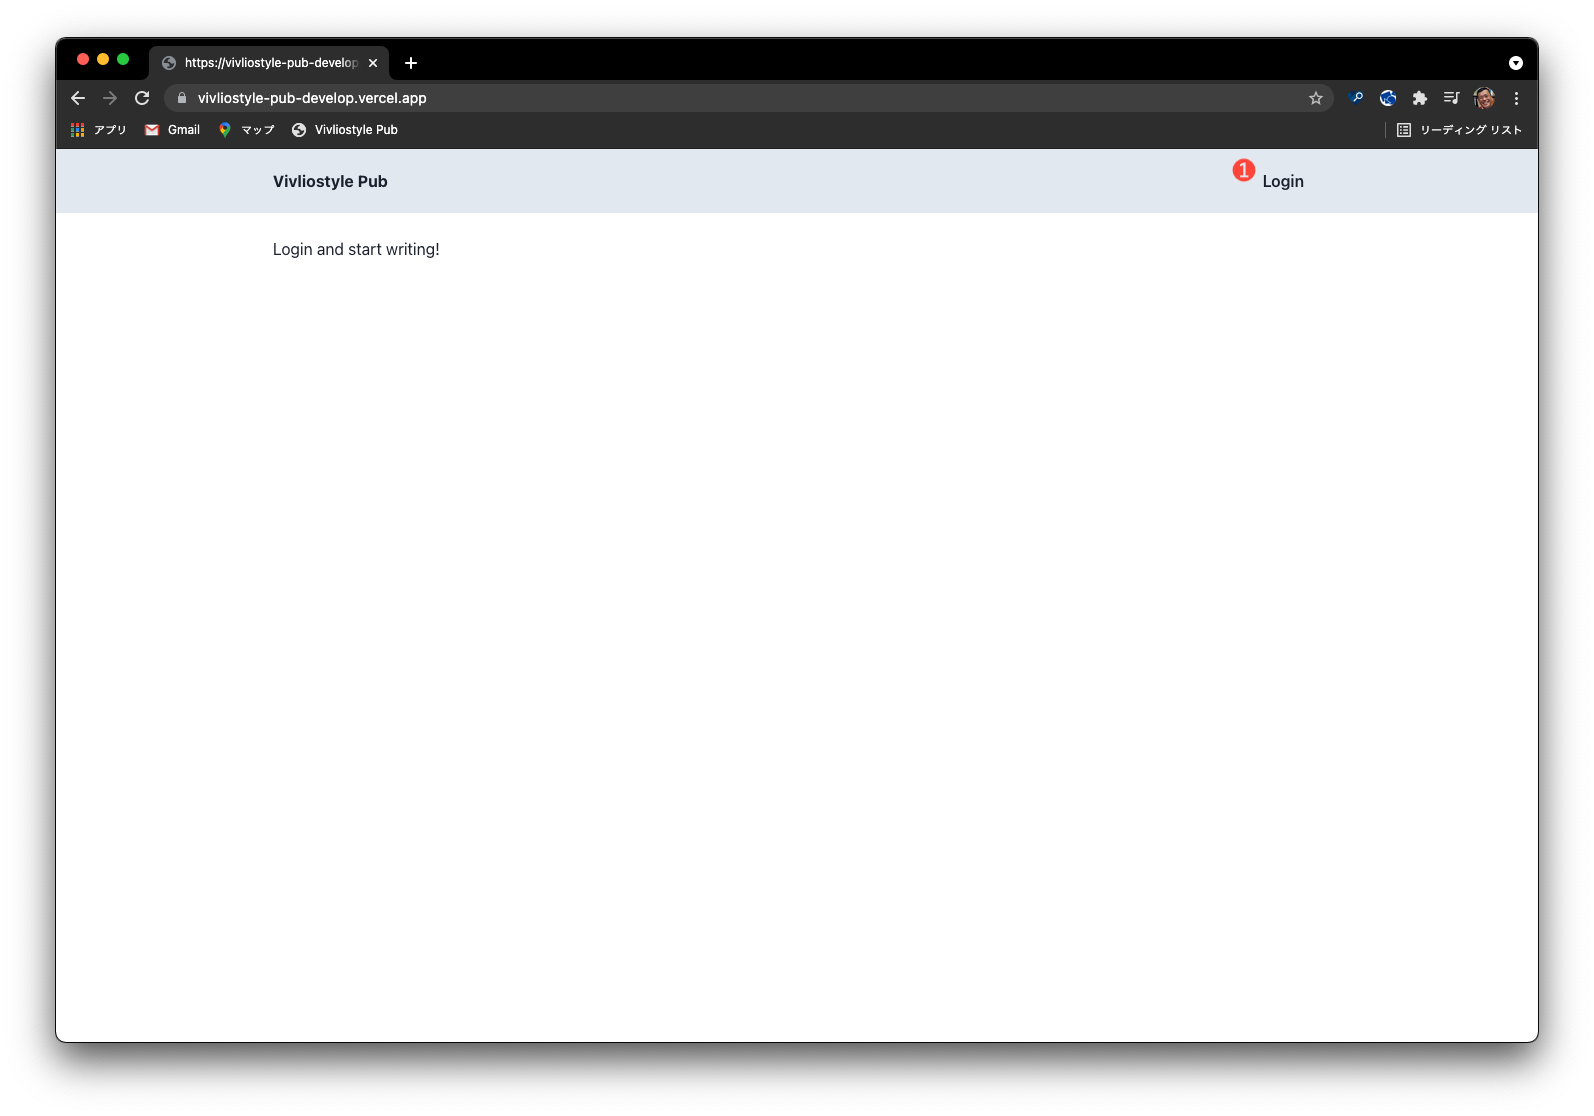
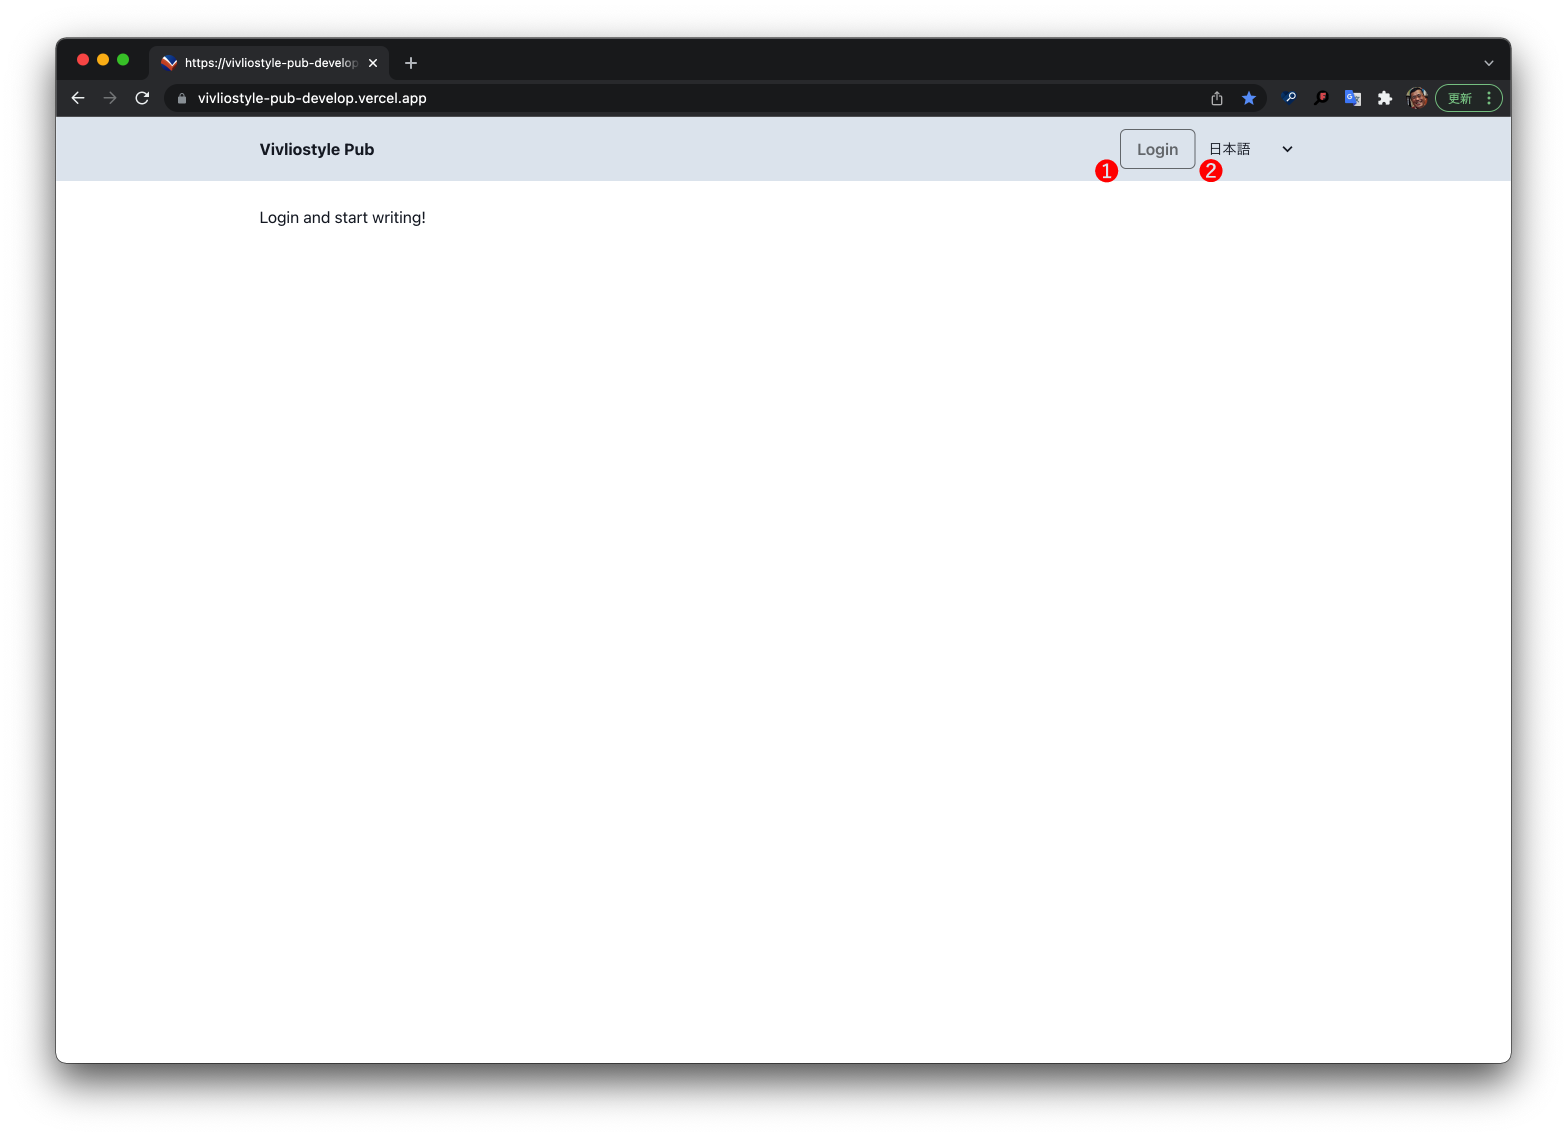
クイックスタートガイド途中まで

Changed region(s): [[0.0306, 0.0305, 0.9802, 0.2437]]

diff --git a/ja/readme-first/quick-start-guide-and-required-environment.md b/ja/readme-first/quick-start-guide-and-required-environment.md
@@ -7,26 +7,61 @@
 
 ## 初期画面
 
-[所定のURL](https://vivliostyle-pub-develop.vercel.app/)にアクセスすると、以下の初期画面が表示されます。①「Login」ボタンを押して、GitHubアカウントでログインしてください。（→[GitHubアカウントの取得方法](/ja/advance-preparation/get-an-account#github%E3%82%A2%E3%82%AB%E3%82%A6%E3%83%B3%E3%83%88%E3%81%AE%E5%8F%96%E5%BE%97%E6%96%B9%E6%B3%95)）
+[所定のURL](https://vivliostyle-pub-develop.vercel.app/)にアクセスすると、以下の初期画面が表示されます。①「Login」ボタンを押して、GitHubアカウントでログインしてください（→[GitHubアカウントの取得方法](/ja/advance-preparation/get-an-account#github%E3%82%A2%E3%82%AB%E3%82%A6%E3%83%B3%E3%83%88%E3%81%AE%E5%8F%96%E5%BE%97%E6%96%B9%E6%B3%95)）。なお、②言語メニューから使用言語を選択することができます（初期値：日本語）。
 
 ![](images/readme-first/fig-1.png)
 
 ## リポジトリとブランチの選択
 
-ログインするとすると以下の画面でリポジトリを選択します。リポジトリに複数のブランチがある場合はブランチも選択できます（予定）。公開リポジトリは“Public”、非公開は“Private” と表示されます。
+ログインするとすると以下の画面でリポジトリを選択します。リポジトリに複数のブランチがある場合はブランチも選択できます。公開リポジトリは“Public”、非公開は“Private” と表示されます。
 
 ![](images/readme-first/fig-2.png)
 
 - ①……リポジトリの選択
-- ②……GitHubアプリのインストール（→[最初のログインで必要な作業](/ja/advance-preparation/login.md)）
-- ③……GitHubアクセス・トークンのリフレッシュ（→[最初のログインで必要な作業](/ja/advance-preparation/login.md)）
-- ④……ログアウト
+- ②……リポジトリ表示の更新
+- ③……GitHubアプリのインストール（→[最初のログインで必要な作業](/ja/advance-preparation/login.md)）
+- ④……GitHubアクセス・トークンのリフレッシュ（→[最初のログインで必要な作業](/ja/advance-preparation/login.md)）
+- ⑤……GitHubアカウントのユーザ名（[GitHub > Settings > Public profile](https://github.com/settings/profile)の “Name” に記入された名前）
+- ⑥……言語メニュー（初期値：日本語）
 
-リポジトリ（①）をクリックすると、自動的にエディタ／プレビュー画面に遷移します。
+いずれかのリポジトリ（①）をクリックすると、自動的にエディタ／プレビュー画面に遷移します。
+
+## ログアウト／利用者アンケートの送付／不具合のフィードバック
+
+GitHubアカウントのユーザ名をクリックすると、プルダウンメニューが表示されます。ログアウトはメニュー項目の一番下です。これを選択すると、ログアウトして初期画面に戻ります。また、このメニューから利用者アンケートの送付や不具合のフィードバックができます。ぜひご利用ください。
+
+![](images/readme-first/fig-3.png)
+
+- ①……利用者アンケートの送付
+- ②……不具合のフィードバック
+- ③……ログアウト
 
 ## エディタ／プレビュー画面
 
-![](images/readme-first/fig-3.png)
+![](images/readme-first/fig-4.png)
+
+### メニュー・エリア
+
+![](images/readme-first/fig-5.png)
+
+- ①……ユーザ名 / リポジトリ名
+- ②……ブランチ切り替えメニュー
+- ③……ファイル保存ボタン
+- ④……GitHubアカウントのユーザ名（プルダウンメニュー→アンケート送付／フィードバック／ログアウト）
+- ⑤……言語メニュー（初期値：日本語）
+- ⑥……ファイル一覧ペインの表示／非表示
+- ⑦……エディタ・ペインの表示／非表示
+- ⑧……プレビュー・ペインの表示／非表示
+- ⑨……Actionメニュー（→ [スタイルの切替](/ja/style-switching-and-file-output/switching-styles.md)、[PDFの出力](/ja/style-switching-and-file-output/output-pdf.md)）
+
+### ファイル一覧ペイン
+
+### エディタ・ペイン
+
+### プレビュー・ペイン
+
+
+
 
 - ①……ファイル選択ペイン
 - ②……ファイル検索ウィンドウ

diff --git a/ja/advance-preparation/get-an-account.md b/ja/advance-preparation/get-an-account.md
@@ -17,11 +17,11 @@
 
 ![ ](images/advance-preparation/get-an-account/fig-3.png)
 
-4. ここからはGitHubによるアンケートです。“How many team member will be working with you?”（何人のチームメンバーがあなたと一緒に働きますか？）、Are you a student or teacher?（あなたは学生ですか、教師ですか？）いずれも選択しなくて問題ありません。その後、「Continue」（続ける）をクリック
+4. ここからはGitHubによるアンケートです。“How many team member will be working with you?”（何人のチームメンバーがあなたと一緒に働きますか？）、Are you a student or teacher?（あなたは学生ですか、教師ですか？）いずれも必ずしも回答する必要はありません。その後、「Continue」（続ける）をクリック
 
 ![ ](images/advance-preparation/get-an-account/fig-4.png)
 
-5. “What specific features are you interested in using?”（具体的にどのような機能を使いたいとお考えですか？）これも選択しなくても問題ありません。その後、「Continue」（続ける）をクリック
+5. “What specific features are you interested in using?”（具体的にどのような機能を使いたいとお考えですか？）これも必ず回答する必要はありません。その後、「Continue」（続ける）をクリック
 
 ![ ](images/advance-preparation/get-an-account/fig-5.png)
 
